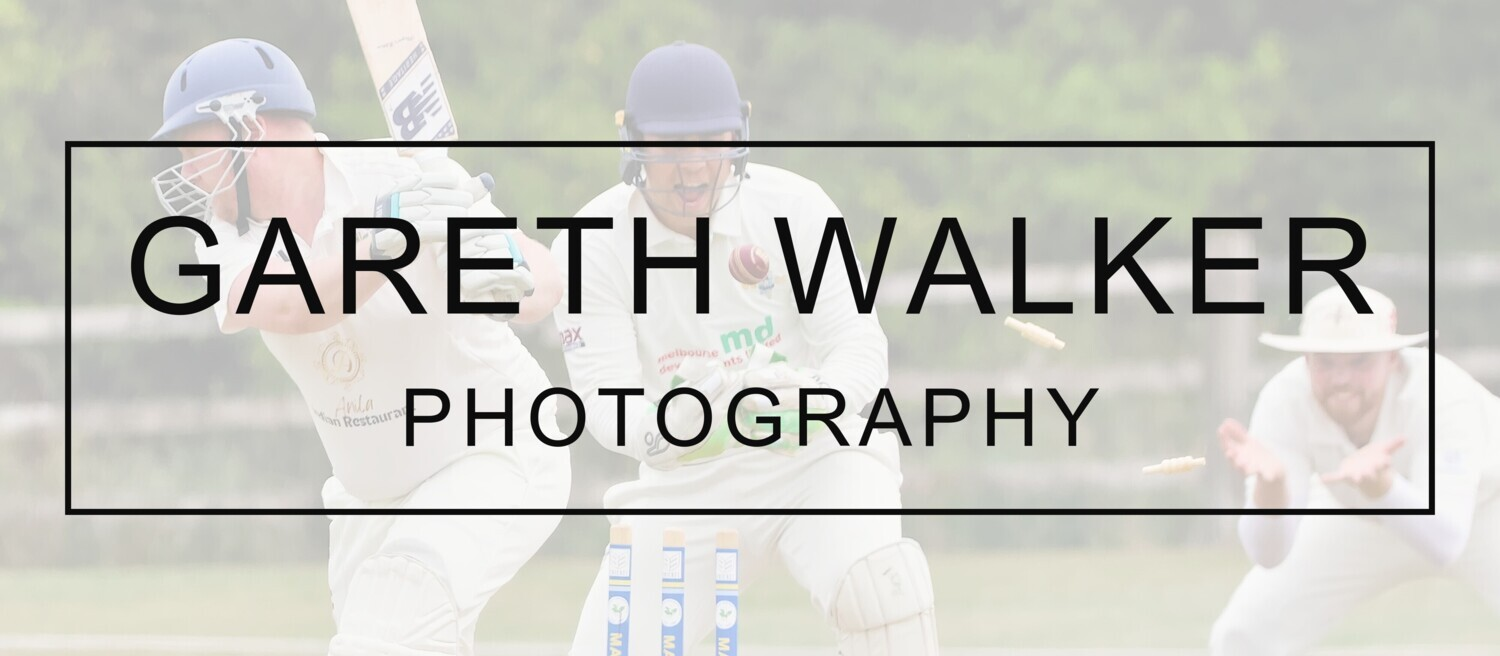
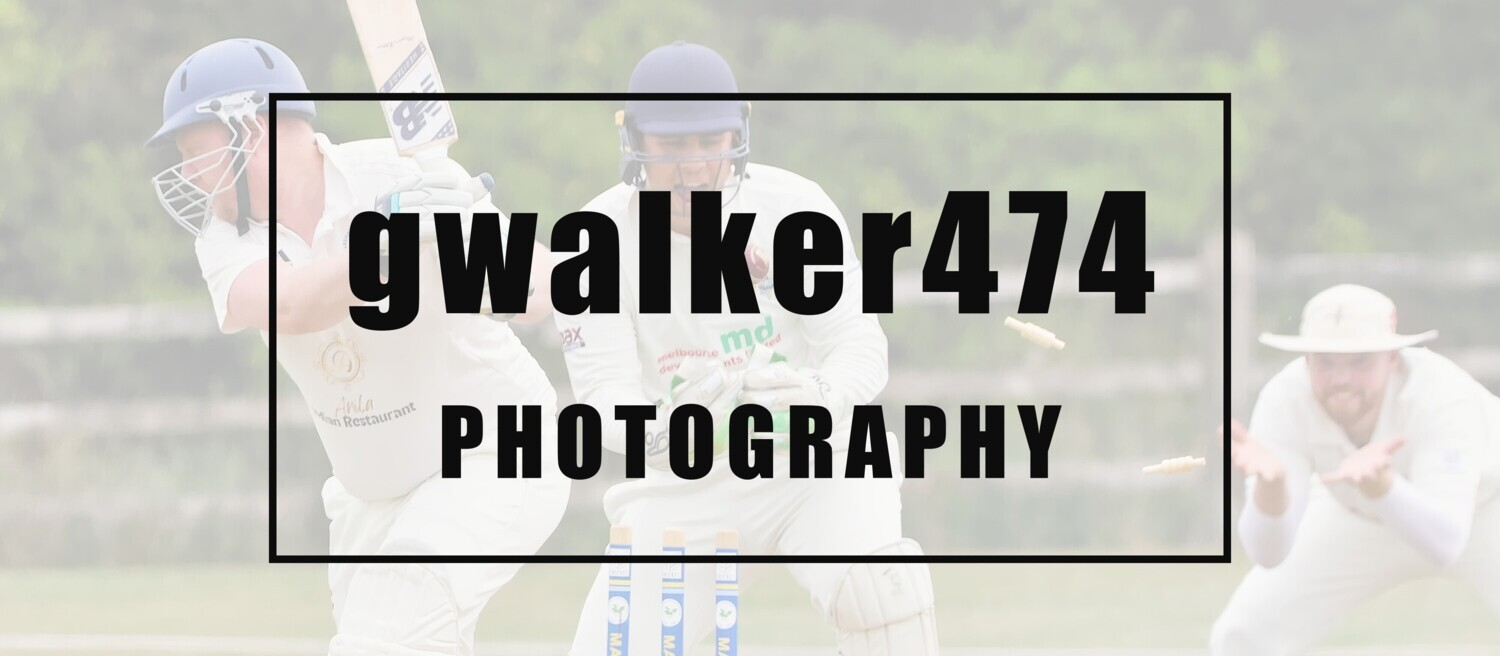
updates

Changed region(s): [[0.0307, 0.122, 0.9813, 0.8841], [0.2453, 0.5793, 0.736, 0.7317]]

diff --git a/index.html b/index.html
@@ -85,17 +85,19 @@
 	 "about">
       <h3 class="w3-center">About</h3>
       <hr>
-      <p>I am a photographer living in South Yorkshire, UK. I have a
-	particular passion for photographing sports and especially
-	recreational or 'club'-level sport. From many years' involvement as
-	a spectator, a player, and a parent, I know that many people put
-	their heart and soul into recreational sport, both on and off the
-	fields of play. I love capturing that skill, effort, emotion,
+      <p>I am Gareth Walker, a photographer living in South Yorkshire,
+	UK. I have a particular passion for photographing sports and
+	especially recreational or 'club'-level sport. From many
+	years' involvement as a spectator, a player, and a parent, I
+	know that many people put their heart and soul into
+	recreational sport, both on and off the fields of play. I love
+	capturing that skill, effort, emotion,
 	energy—that <i>life</i>—and showing it to the world through my
-	photography. If you think I can help you or your club capture and
-	share your story through photography please <a href="#contact" style="color: #0000EE">get
-	  in touch with me</a> and we can start a conversation about how we
-	can make that happen.</p>
+	photography. If you think I can help you or your club capture
+	and share your story through photography
+	please <a href="#contact" style="color: #0000EE">get in touch
+	with me</a> and we can start a conversation about how we can
+	make that happen.</p>
       <p>Before turning to photography full-time I worked in higher
 	education for more than 20 years as a teacher and researcher. (I
 	graduated with a doctorate/PhD in 2004.) I love learning how to do
@@ -111,7 +113,7 @@
       <h3 class="w3-center">Contact</h3>
       <hr>
       <p>You can get in touch via email (<a href="mailto:walkergareth474@gmail.com" style="color: #0000EE">walkergareth474@gmail.com</a>)
-	or Instagram (<a href="https://www.instagram.com/gwalker_474" style="color: #0000EE">@gwalker_474</a>), or by
+	or Instagram (<a href="https://www.instagram.com/gwalker474" style="color: #0000EE">@gwalker474</a>), or by
 	using the contact form below.</p>
       <center><a href="mailto:walkergareth474@gmail.com" class="email-button"><i class="fa-regular fa-envelope"></i> Email</a> <a href="https://www.instagram.com/gwalker_474" class="email-button"><i class="fa-brands fa-instagram"></i> Instagram</a></p></center>
 <!-- Form -->
